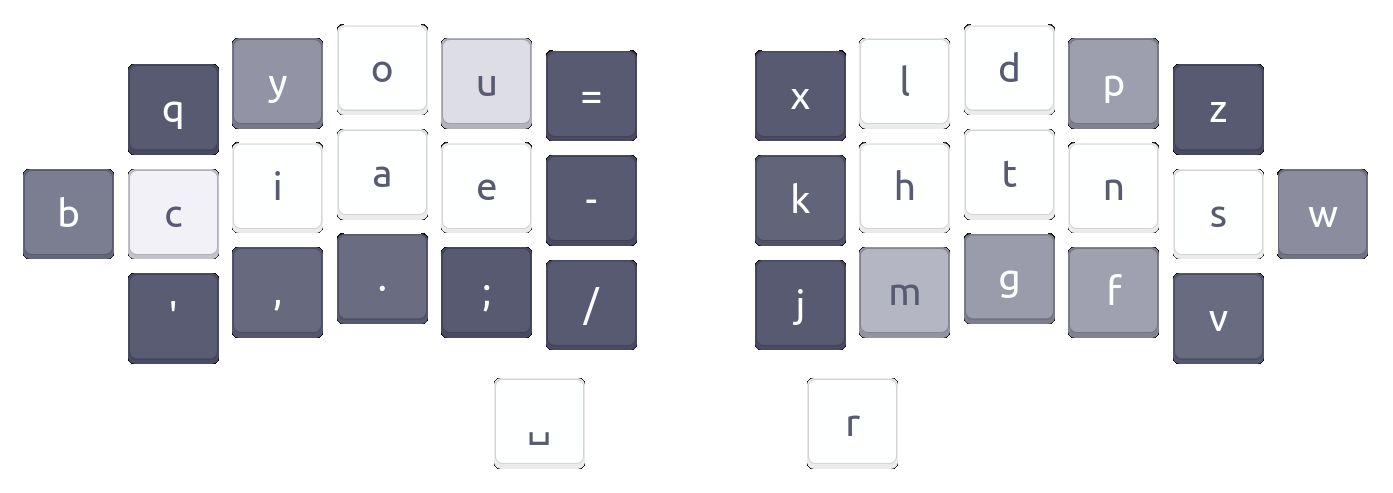
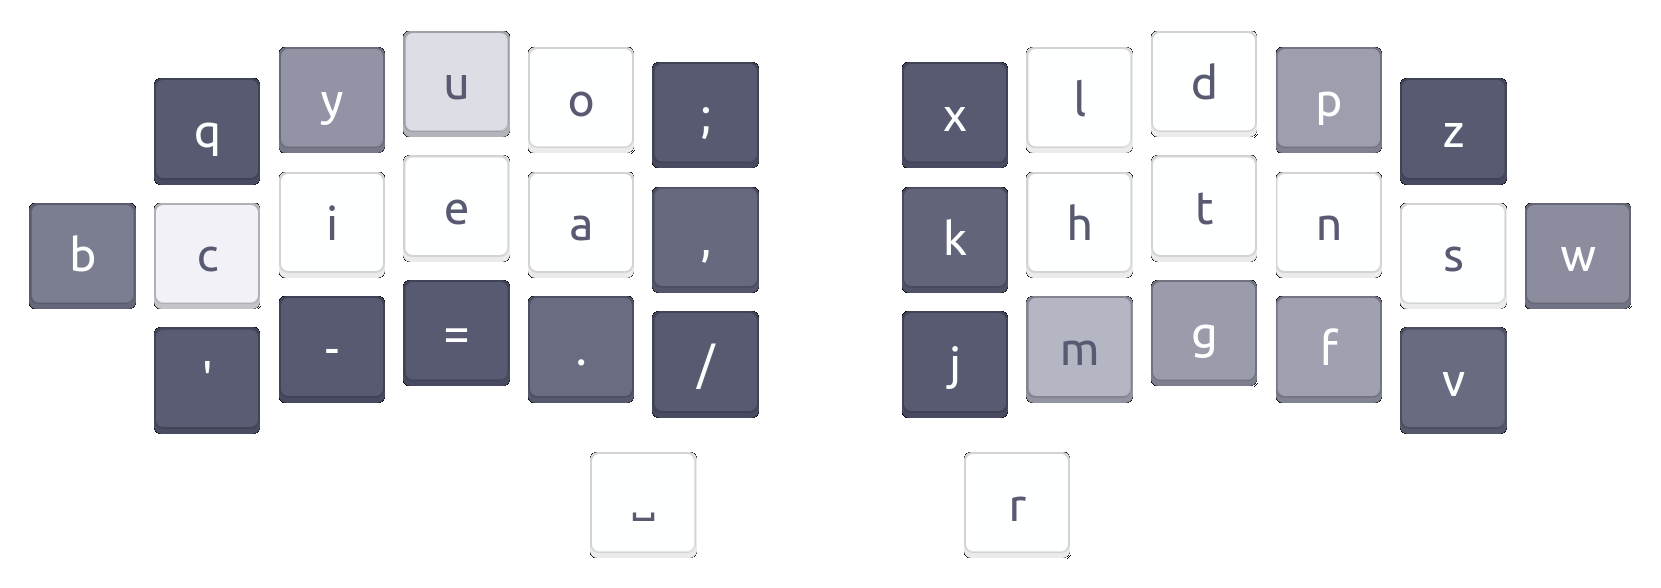
Enthium v15a candidate (YUO/CIEA/-=)

diff --git a/README.md b/README.md
@@ -1,146 +1,147 @@
-# Enthium v14 - Engrammer meets Promethium
+# Enthium v15 - Engrammer meets Promethium
 
-*Enthium* is a highly performant adaptation of the [Engrammer] and [Hands Down
-Promethium] keyboard layouts.  It restores familiarity with [Arno's Engram 2.0]
-layout (YOU on the left hand) and the [Dvorak] layout (HTNS on the right hand)
-while optimizing punctuation placement for programming in the spirit of Engrammer,
-featuring HJKL and `,;` for Vim, `-=` for zooming, and `./` for filesystem paths.
+*Enthium* is a highly performant thumb-letter keyboard layout adapted from
+[Promethium] in the spirit of [Engrammer].  It commemorates [Engram 2.0] and
+[Dvorak] with CIEA and HTNS on the home row, respectively, while optimizing
+punctuation and symbol placement for programming and application shortcuts,
+including HJKL for Vim navigation, `-=` for zooming, and `./` for file paths.
 
 ![Heatmap of this layout by Valorance, adapted from Oxeylyzer.](heatmap.png)
 
-      q y o u = x l d p z
-    b c i a e - k h t n s w
-      ' , . ; / j m g f v
+      q y u o ; x l d p z
+    b c i e a , k h t n s w
+      ' - = . / j m g f v
                 r
 
-[Hands Down Promethium]: https://reddit.com/r/KeyboardLayouts/comments/1g66ivi
-[Arno's Engram 2.0]:     https://github.com/binarybottle/engram-2021
-[Engrammer]:             https://github.com/sunaku/engrammer
-[Dvorak]:                https://www.dvzine.org
+[Promethium]: https://reddit.com/r/KeyboardLayouts/comments/1g66ivi
+[Engram 2.0]: https://github.com/binarybottle/engram-2021
+[Engrammer]:  https://github.com/sunaku/engrammer
+[Dvorak]:     https://www.dvzine.org
 
 ## Rationale
 
-* Pinky load is stratified by frequency: heavy letters B (1.44%) and W (1.77%)
-  are close to home position on the lateral pinky keys (CapsLock, Apostrophe);
-  medium letters `'` (0.47%) and V (1.09%) occupy the lower row pinky keys; and
-  light letters Q (0.10%) and Z (0.09%) sit on the upper row.  This distribution
-  helps reduce strain for short pinky fingers or those [weakened by convention].
+Enthium balances layout analyzer metrics (pinky and same-finger use, lateral
+stretches, redirects, rolls, etc.) with findings from my extensive real-world
+evaluation and feedback from early adopters in the Glove80 keyboard community.
+See [my blog post] for a closer look at Enthium's design process and evolution.
 
-* Vertical same-finger bigrams such as UE (0.08%), OA (0.05%), and NF (0.04%)
-  can be _raked down_, mitigating their impact on typing flow and performance.
-  Similarly, horizontal ones can be _slid over_ based on dexterity and comfort.
+### Typing comfort and flow
+
+* Pinky load is stratified by frequency: heavy letters B (1.44%) and W (1.77%)
+  are close to the home position on lateral pinky keys (CapsLock, Apostrophe);
+  apostrophe `'` (0.47%) and letter V (1.09%) occupy the lower row pinky keys;
+  and light letters Q (0.10%) and Z (0.09%) sit on the upper row.  This helps
+  reduce strain for pinky fingers that are short or [weakened by convention].
 
 * Apostrophe is on a different finger from vowels to avoid same-finger bigrams
-  when typing contractions in English: You'd, I'd, He'd, They'd, Quo's, Via's.
+  when typing English contractions such as ma'am, we'd, I'm, o'clock, you're.
 
-* B/E/W, I/A, K/J, Ctrl-P/N, T/F, and `,;` are directionally coherent for Vim.
+* Cross-hand symmetry (EA and TH roll inward, whereas OU and LD roll outward)
+  provides consistent directionality through the vowel and consonant clusters,
+  while E on the middle finger supports continuity through vowel-heavy words.
+
+* Vertical same-finger bigrams such as UE (0.08%), OA (0.05%), and NF (0.04%)
+  can be _raked down_, which can help reduce interruptions to your typing flow.
+  Similarly, horizontal ones can be _slid over_ based on dexterity and comfort.
+  For example, the word "queue" can be typed as a Q tap followed by raking down
+  UE twice with the middle finger, whereas the word "milk" can be typed as M
+  and I taps followed by sliding down and across LK with the index finger.
+
+* QU is an inward roll that flows seamlessly into common vowel sequences:
+  QUO keeps rolling inward, QUI/QUA roll downward, and QUE rakes downward.
+
+### Punctuation and shortcuts
 
 * Ctrl-B/I/U shortcuts for bold/italic/underline are all on the same hand.
 
 * `-` and `=` are clustered for intuitive zoom-in/out shortcuts with Ctrl.
+  They are also positioned to the left of `>` for typing `->` and `=>`.
 
-* `.` and `/` are in-rollable for relative `./` and `../` filesystem paths.
+* `.` and `/` are clustered for relative file paths such as `./` and `../`.
 
-* `,.;/` are in the same relative sequence as QWERTY for easier adaptation,
-  especially for navigation and custom shortcuts that rely on shifted `<>`.
+* `,` is stacked above `.` on conventional row-staggered keyboards, allowing
+  `<>` to be typed by _raking down_ vertically while holding the Shift key.
 
-* `',.` are on the same fingers and hand (only the row changes) as Dvorak.
+* `;` and `,` are stacked for cycling through f/F/t/T jump targets in Vim,
+  mirroring the relative ordering of L and H for horizontal cursor movement.
 
-* See [my blog post] for a closer look at Enthium's design and evolution.
+* B/E/W, I/A, K/J, Ctrl-P/N, and T/F physically align with Vim directions.
 
 [my blog post]:           https://sunaku.github.io/enthium-keyboard-layout.html
 [weakened by convention]: https://reddit.com/r/KeyboardLayouts/comments/1fy8nve/_/lqulnww/
 
 ## Performance
 
-The [keyboard layout community][rKL] commonly recommends [Pascal Getreuer's
-guide][PGr] and ranking tables as a starting point for layout exploration,
-and Enthium ranks among the top-performing layouts there as of 2025-12-28.
-More importantly, Enthium is well-balanced in terms of ergonomic concerns
-(same-finger avoidance, redirects, rolls, and pinky load) for sustained use.
+The [keyboard layouts community][rKL] often recommends [Pascal Getreuer's
+guide][PGr] and comparison tables as a starting point for choosing a layout,
+and Enthium stands among the top-performing layouts there as of 2026-08-16:
 
-Comparing with [conventional layout rankings][PGl]:
+| Metric                      | 📉 SFBs _(c)_ | 📉 LSBs _(d)_ | 📉 Scissors | 📈 Rolls _(e)_ | 📉 Redirects | 📉 Pinky use _(f)_ |
+| --------------------------- | ------------- | ------------- | ----------- | -------------- | ------------ | ------------------ |
+| **Enthium v15 score**       | 0.49%         | 0.18%         | 0.08%       | 45.26%         | 2.05%        | 14.44%             |
+| **Thumb-letter rank** _(a)_ | 3rd 🥉        | 2nd 🥈        | 1st 🥇      | 8th            | 5th          | 4th                |
+| **Conventional rank** _(b)_ | 1st 🥇        | 1st 🥇        | 1st 🥇      | 16th           | 8th          | 4th                |
 
-* 0.55% SFBs — second 🥈 place; only surpassed by Focal
-* 2.67% SFSs — first 🥇 place; beats the entire table!
-* 0.07% LSBs — first 🥇 place; beats the entire table!
-* 1.48% redirects — second 🥈 place; after HandsDownNeu
-* 0.16% scissors — sixth place; after Dvorak, Anymak:END, APTv3, MTGAP, Colemak-DH
-* 45.82% rolls — beats Semimak, Engram, HandsDownNeu, Anymak:END, Halmak, Dvorak
-* 2.91% pinky off — beats Canary, Gallium, APTv3, Semimak, MTGAP, Dvorak, Recurva, etc.
+* For each metric: 📉 indicates *lower is better*, whereas 📈 indicates *higher is better*.
+* _(a)_ Compared to other [thumb-letter layouts][PGt], excluding past versions of Enthium.
+* _(b)_ Compared to non-thumb [conventional layouts][PGl], such as QWERTY and Dvorak.
+* _(c)_ SFBs are *same-finger bigrams*, such as the sequence ED in the QWERTY layout.
+* _(d)_ LSBs are *lateral-stretch bigrams*, such as the sequence ET in the QWERTY layout.
+* _(e)_ Rolls sums the four roll metrics under the Trigrams category in the table below.
+* _(f)_ Pinky use is [Pascal Getreuer's own metric][PGl], as published in his comparison tables.
 
-Comparing with [thumb-letter layout rankings][PGt]:
+These performance scores were [computed using Cyanophage's Layout Analyzer][cEM]:
 
-* 0.55% SFBs — second 🥈 place; only surpassed by Night
-* 2.67% SFSs — second 🥈 place; only surpassed by Night
-* 0.07% LSBs — second 🥈 place; only surpassed by Caster
-* 1.48% redirects — third 🥉 place; after Nordrassil, Vibranium
-* 0.16% scissors — fourth place; after RSTHD, Promethium, Maltron
-* 45.82% rolls — sixth place; beats Promethium, Nordrassil
-* 2.91% pinky off — third 🥉 place; after RSTHD, Nordrassil
+[![Enthium's performance per Cyanophage's Layout Analyzer](cyanophage.png)][cEM]
 
-Several same-finger bigrams (SFBs) in Enthium can be _raked down_ vertically
-across adjacent rows or _slid over_ horizontally, based on your dexterity and
-comfort.  This allows the same finger to actuate both keys in one continuous
-motion, thereby mitigating their impact on your typing flow and performance:
+| Category | Metric _(g)_           | [Enthium v15][cEM] | [Promethium][cPM] | [Engrammer][cEG] | [Dvorak][cDV] | [Colemak-DH][cCD] | [QWERTY][cQW] |
+| -------- | ---------------------- | ------------------ | ----------------- | ---------------- | ------------- | ----------------- | ------------- |
+| Summary  | 📉 Total Word Effort   | **723.4**          | 732.1             | 899.5            | 1185.5        | 1047.9            | 2070.6        |
+| Summary  | 📉 Effort              | 447.66             | **398.09**        | 457.41           | 769.69        | 534.99            | 1258.15       |
+| Bigrams  | 📉 Same Finger Bigrams | **0.49%**          | 0.58%             | 0.99%            | 1.87%         | 0.91%             | 4.38%         |
+| Bigrams  | 📉 Skip Bigrams (2u)   | **0.33%**          | 0.36%             | 0.39%            | 0.45%         | 0.49%             | 1.43%         |
+| Bigrams  | 📉 Skip Bigrams (SFS)  | **2.73%**          | 3.05%             | 3.47%            | 3.48%         | 4.24%             | 5.45%         |
+| Bigrams  | 📉 Lat Stretch Bigrams | **0.18%**          | 0.24%             | 0.41%            | 0.80%         | 1.27%             | 4.55%         |
+| Bigrams  | 📉 Scissors            | **0.08%**          | 0.11%             | 0.36%            | **0.08%**     | 0.15%             | 1.46%         |
+| Trigrams | 📈 Alt                 | 37.98%             | 36.98%            | 35.62%           | **39.08%**    | 25.43%            | 21.38%        |
+| Trigrams | 📉 Alt SFS             | **4.57%**          | 5.27%             | 5.93%            | 5.85%         | 5.47%             | 5.42%         |
+| Trigrams | 📈 Roll in             | 0.90%              | 1.72%             | **1.82%**        | 0.28%         | 1.50%             | 1.32%         |
+| Trigrams | 📈 Roll out            | 0.37%              | 0.29%             | 0.29%            | 0.27%         | 0.98%             | **1.48%**     |
+| Trigrams | 📈 Bigram roll in      | 27.67%             | **29.17%**        | 28.14%           | 23.51%        | 25.18%            | 20.38%        |
+| Trigrams | 📈 Bigram roll out     | 16.32%             | 14.56%            | 14.03%           | 15.14%        | **21.54%**        | 17.58%        |
+| Trigrams | 📉 Redirect            | 2.05%              | **1.53%**         | 2.26%            | 1.55%         | 5.33%             | 6.22%         |
+| Trigrams | 📉 Weak redirect       | 0.92%              | 0.87%             | 0.74%            | 0.64%         | 1.09%             | **0.44%**     |
+| Trigrams | 📉 Other               | **9.23%**          | 9.61%             | 11.17%           | 13.68%        | 13.49%            | 25.78%        |
+| Getreuer | 📉 Pinky use           | 14.44%             | 14.41%            | 16.86%           | 19.32%        | 16.58%            | **11.04%**    |
 
-> 0.55% SFBs - 0.26% rakeable - 0.07% slideable = **0.22% _effective_ SFBs**
+* _(g)_ **Bold** indicates the best value within each row, among the layouts being compared here in this table.
 
-| SFB  | Cost  | Mitigation |
-| ---  | ----  | ---------- |
-| `ue` | 0.08% | rake down  |
-| `oa` | 0.05% | rake down  |
-| `nf` | 0.04% | rake down  |
-| `ws` | 0.03% | slide in   |
-| `yi` | 0.03% | rake down  |
-| `e-` | 0.02% | slide out  |
-| `sw` | 0.02% | slide out  |
-| `a.` | 0.02% | rake down  |
-| `lk` | 0.02% | rake down  |
-| `e/` | 0.01% | rake down  |
-| `hm` | 0.01% | rake down  |
+[rKL]: https://www.reddit.com/r/KeyboardLayouts/
+[PGr]: https://getreuer.info/posts/keyboards/alt-layouts/
+[PGl]: https://getreuer.info/posts/keyboards/alt-layouts/#table
+[PGt]: https://getreuer.info/posts/keyboards/alt-layouts/#layouts-with-thumb-keys
 
-These results were [computed with Cyanophage's Layout Analyzer][cNM] as follows.
-
-[![Statistics for Enthium from Cyanophage's Layout Analyzer](cyanophage.png)][cNM]
-
-[cNM]: https://cyanophage.github.io/playground.html?layout=qyou%3Dxldpz%5Cciae-khtnsw%27%2C.%3B%2Fjmgfv*rb&mode=ergo&lan=english&thumb=r
+[cEM]: https://cyanophage.github.io/playground.html?layout=qyuo%3Bxldpz%5Cciea%2Ckhtnsw%27-%3D.%2Fjmgfv*rb&mode=ergo&lan=english&thumb=r
 [cPM]: https://cyanophage.github.io/playground.html?layout=fpdlx%3Buoybzsnthk%2Caeicqvwgmj-.%27%3D%2F%5Cr&mode=ergo&lan=english&thumb=l
-[cNG]: https://cyanophage.github.io/playground.html?layout=byou%27%3Bldwvzciea%2C.htsnqgxjk-%2Frmfp%5C%5E&mode=ergo&lan=english&thumb=l
+[cEG]: https://cyanophage.github.io/playground.html?layout=byou%27%3Bldwvzciea%2C.htsnqgxjk-%2Frmfp%5C%5E&mode=ergo&lan=english&thumb=l
 [cDV]: https://cyanophage.github.io/playground.html?layout=%27%2C.pyfgcrl%2Faoeuidhtns-%3Bqjkxbmwvz%5C%5E&mode=ergo&lan=english&thumb=l
 [cCD]: https://cyanophage.github.io/playground.html?layout=qwfpbjluy%3B-arstgmneio%27zxcdvkh%2C.%2F%5C%5E&mode=ergo&lan=english&thumb=l
 [cQW]: https://cyanophage.github.io/playground.html?layout=qwertyuiop-asdfghjkl%3B%27zxcvbnm%2C.%2F%5C%5E&mode=ergo&lan=english&thumb=l
 
-| Category | Statistic              | [Enthium][cNM] | [Promethium][cPM] | [Engrammer][cNG] | [Dvorak][cDV] | [Colemak-DH][cCD] | [QWERTY][cQW] |
-| -------- | ---------------------- | -------------- | ----------------- | ---------------- | ------------- | ----------------- | ------------- |
-| Summary  | Total Word Effort 📉   | 724.5          | 732.1             | 899.5            | 1185.5        | 1047.9            | 2070.6        |
-| Summary  | Effort 📉              | 415.46         | 398.09            | 457.41           | 769.69        | 534.99            | 1258.15       |
-| Bigrams  | Same Finger Bigrams 📉 | 0.55%          | 0.58%             | 0.99%            | 1.87%         | 0.91%             | 4.38%         |
-| Bigrams  | Skip Bigrams (2u) 📉   | 0.33%          | 0.36%             | 0.39%            | 0.45%         | 0.49%             | 1.43%         |
-| Bigrams  | Skip Bigrams (SFS) 📉  | 2.67%          | 3.05%             | 3.47%            | 3.48%         | 4.24%             | 5.45%         |
-| Bigrams  | Lat Stretch Bigrams 📉 | 0.07%          | 0.24%             | 0.41%            | 0.80%         | 1.27%             | 4.55%         |
-| Bigrams  | Scissors 📉            | 0.16%          | 0.11%             | 0.36%            | 0.08%         | 0.15%             | 1.46%         |
-| Trigrams | Alt 📈                 | 38.09%         | 36.98%            | 35.62%           | 39.08%        | 25.43%            | 21.38%        |
-| Trigrams | Alt SFS 📉             | 4.46%          | 5.27%             | 5.93%            | 5.85%         | 5.47%             | 5.42%         |
-| Trigrams | Roll in 📈             | 1.55%          | 1.72%             | 1.82%            | 0.28%         | 1.50%             | 1.32%         |
-| Trigrams | Roll out 📈            | 0.40%          | 0.29%             | 0.29%            | 0.27%         | 0.98%             | 1.48%         |
-| Trigrams | Bigram roll in 📈      | 26.99%         | 29.17%            | 28.14%           | 23.51%        | 25.18%            | 20.38%        |
-| Trigrams | Bigram roll out 📈     | 16.88%         | 14.56%            | 14.03%           | 15.14%        | 21.54%            | 17.58%        |
-| Trigrams | Redirect 📉            | 1.48%          | 1.53%             | 2.26%            | 1.55%         | 5.33%             | 6.22%         |
-| Trigrams | Weak redirect 📉       | 0.79%          | 0.87%             | 0.74%            | 0.64%         | 1.09%             | 0.44%         |
-| Trigrams | Other 📉               | 9.36%          | 9.61%             | 11.17%           | 13.68%        | 13.49%            | 25.78%        |
-| Computed | Pinky off 📉           | 2.91%          | 4.08%             | 5.70%            | 4.13%         | 0.78%             | 2.47%         |
-
-[rKL]: https://www.reddit.com/r/KeyboardLayouts/
-[PGr]: https://getreuer.info/posts/keyboards/alt-layouts/
-[PGl]: https://getreuer.info/posts/keyboards/alt-layouts/#which-alt-keyboard-layout-should-i-learn
-[PGt]: https://getreuer.info/posts/keyboards/alt-layouts/#layouts-with-thumb-keys
-
 ## Implementation
 
-![Concept of this layout on a split, ortho-linear keyboard.](layout.png)
+* Letter R is placed on a right thumb key at the thumb's resting position.
+* Letter B is placed on a left pinky key at the immediate left of letter C.
+* Letter W is placed on a right pinky key at the immediate right of letter S.
+
+![Concept of this layout on a split, ortholinear keyboard.](layout.png)
 
 ### Row-staggered keyboards
+
+* Letter R is placed on the key at the immediate right of Spacebar.
+* Letter B is placed on the key at the immediate left of letter C.
+* AltGr is placed on the key at the immediate right of digit 0.
+* Ctrl is placed on the key at the immediate left of Backspace.
 
 ![Rendering of this layout on a row-staggered keyboard.](laptop.png)
 
@@ -154,6 +155,8 @@ See my [Glorious Engrammer] keymap:
 [Glorious Engrammer]: https://github.com/sunaku/glove80-keymaps
 
 ## Installation
+
+Run each block of commands from this repository's root directory.
 
 ### Kanata setup
 
@@ -196,7 +199,7 @@ Uninstall:
     sudo make uninstall
     echo Now restart your graphical session.
 
-### MacOS setup
+### macOS setup
 
 Install:
 
